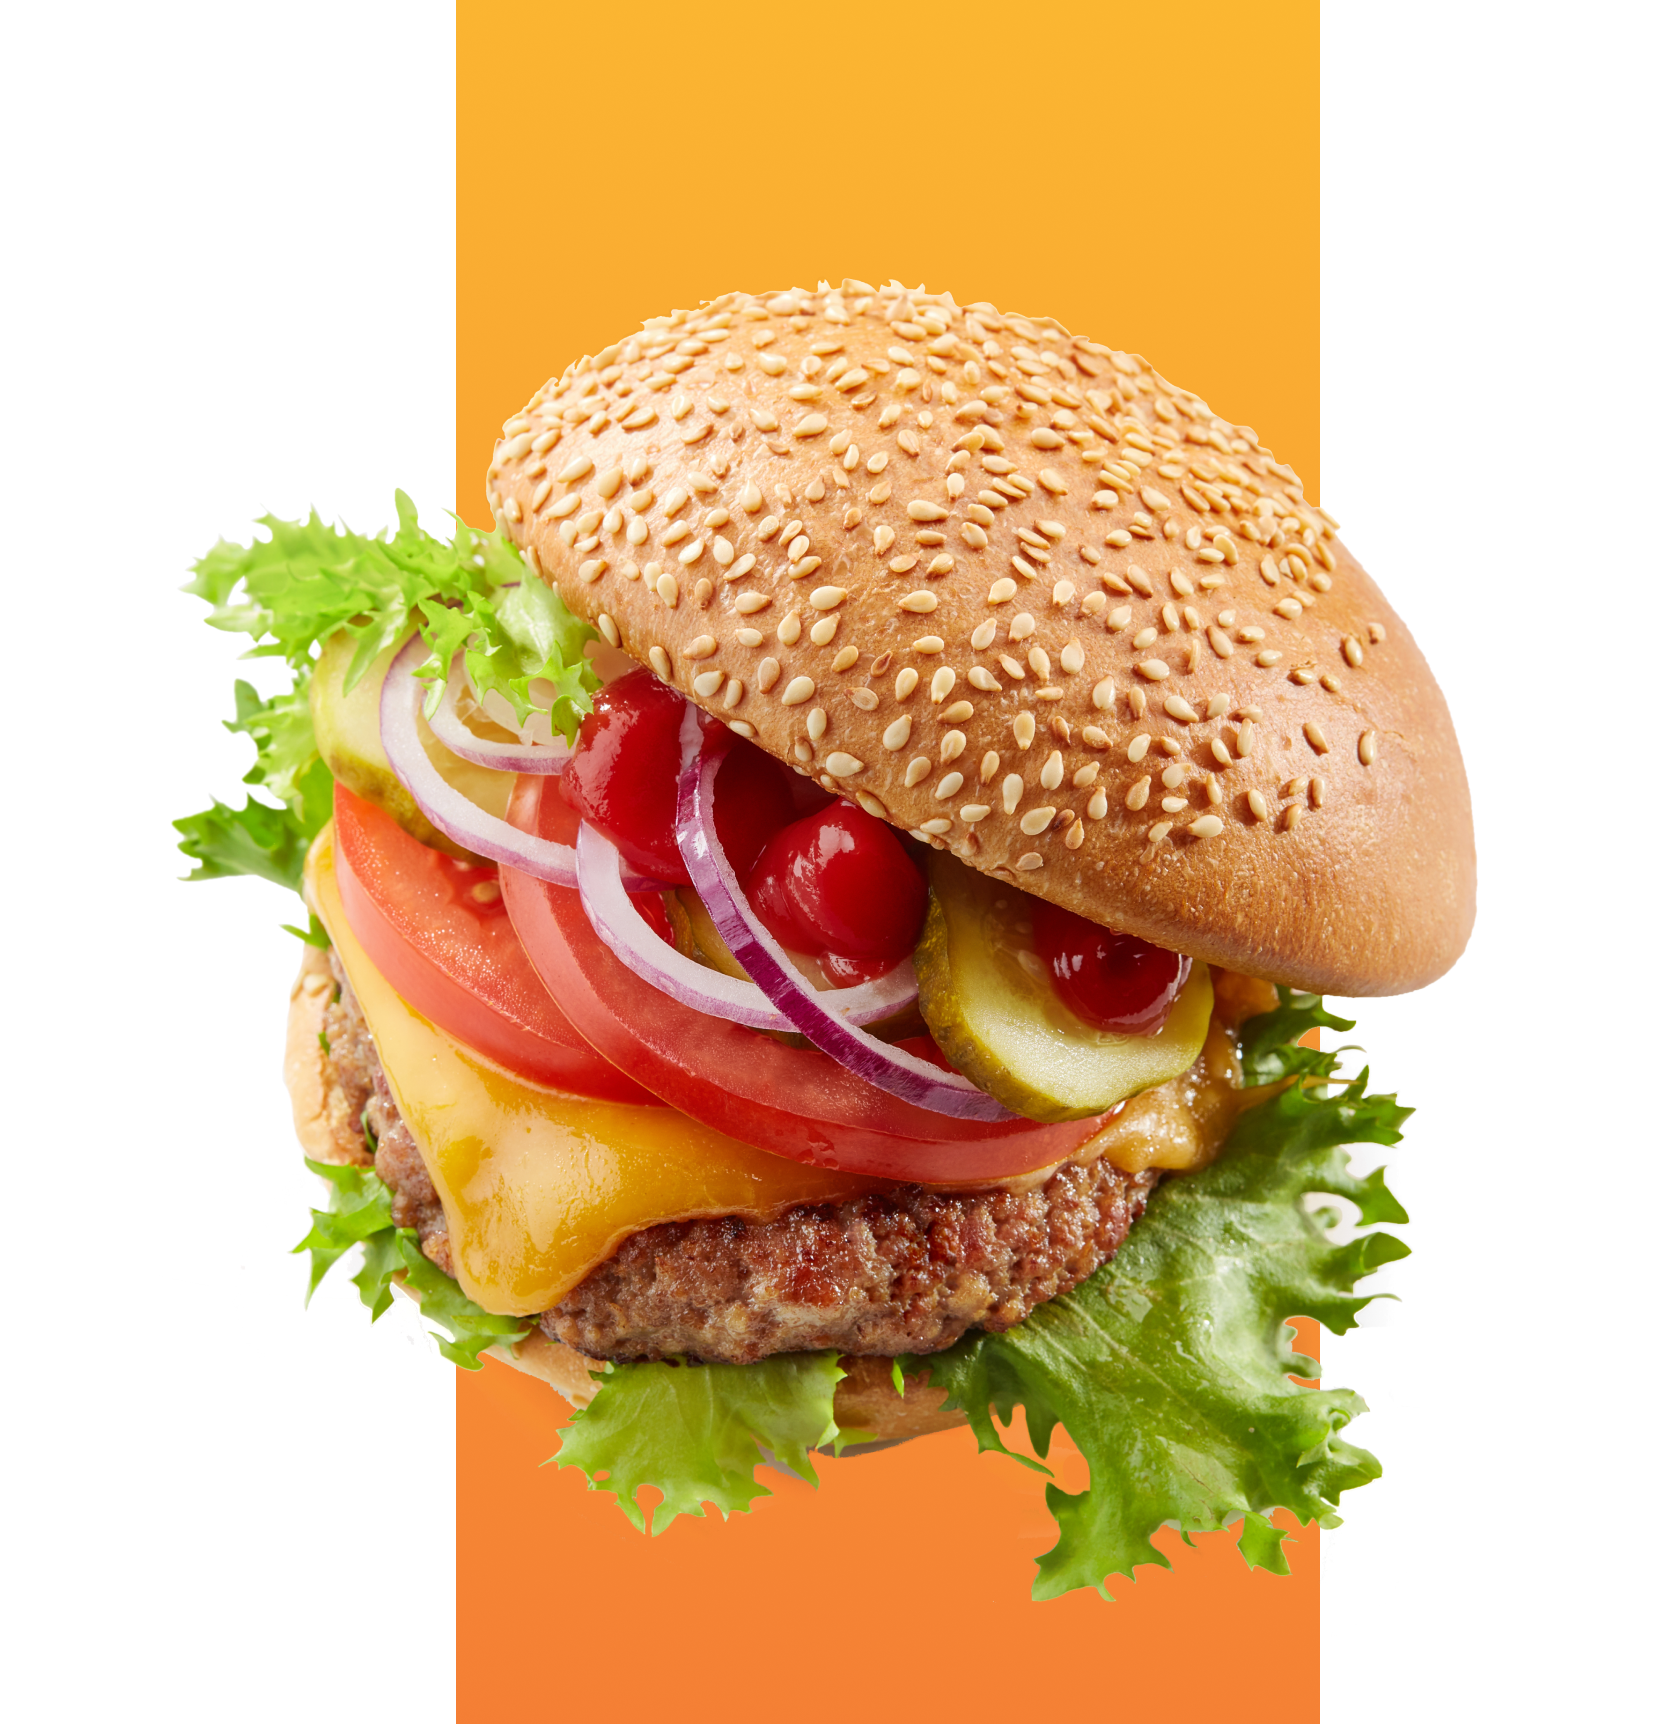
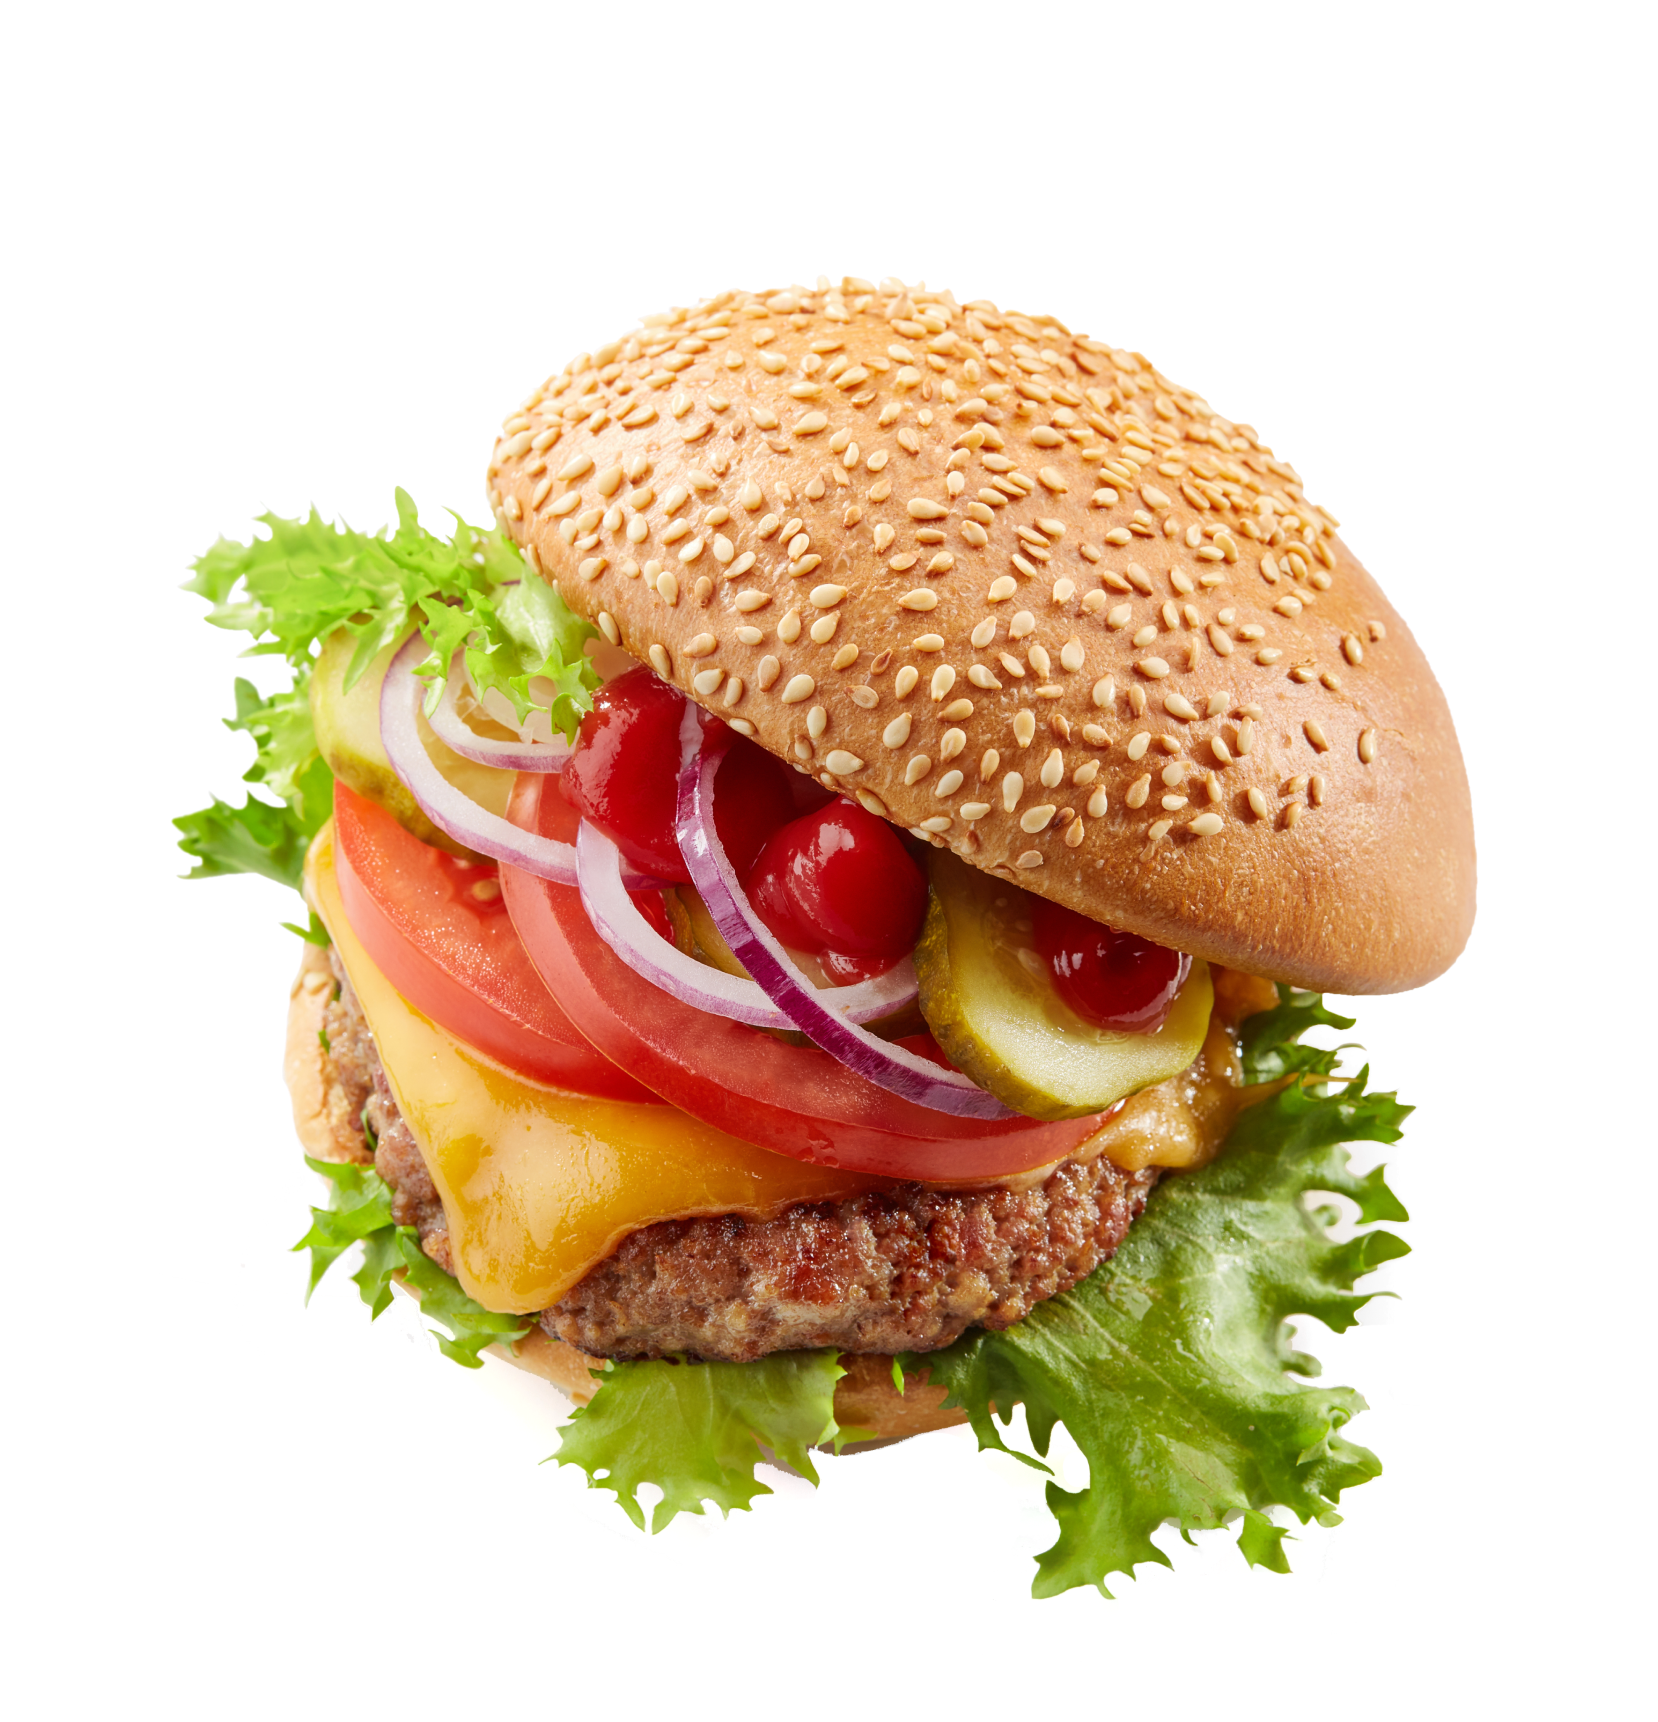
added images

diff --git a/index.html b/index.html
@@ -13,21 +13,20 @@
 <body>
   <div class="main">
     <div class="container">
-      <div class="text"> 
-        <h1>
-          <span>работаем с 11:00 до 22:00</span>
-          Лучшие бургеры</h1>
-          <p>Закажи наши фирменные бургеры или собери что-то своё, а&nbsp;  наши курьеры доставят за&nbsp;  30&nbsp;  минут</p>
-          <a href="#">заказать</a>
-      </div>
-      <div class="visual">
-        <div class="bg">
-
+        <div class="text">
+            <h1>
+                <span>работаем с 11:00 до 22:00</span>
+                лучшие бургеры
+            </h1>
+            <p>Закажи наши фирменные бурегры или собери что-то своё, а&nbsp;наши курьеры доставят за&nbsp;30&nbsp;минут</p>
+            <a href="#">заказать</a>
         </div>
-        <img src="image/burger.png" alt="Burger">
-      </div>
+        <div class="visual">
+            <div class="bg"></div>
+            <img src="image/burger.png" alt="Burger">
+        </div>
     </div>
-  </div>
+</div>
   <div class="promo">
     <div class="container">
         <div class="promo-left">
